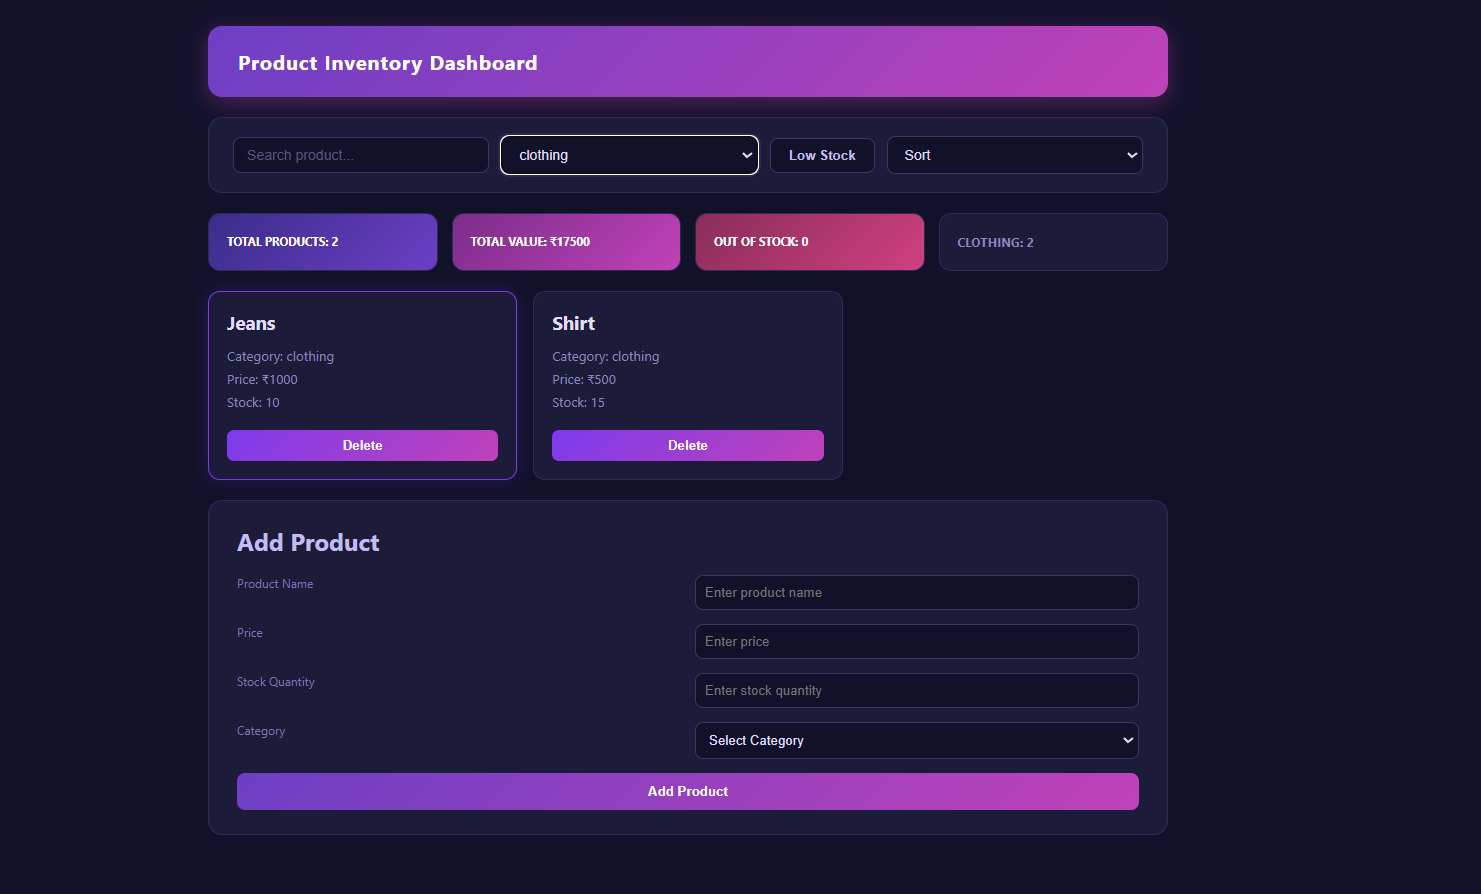
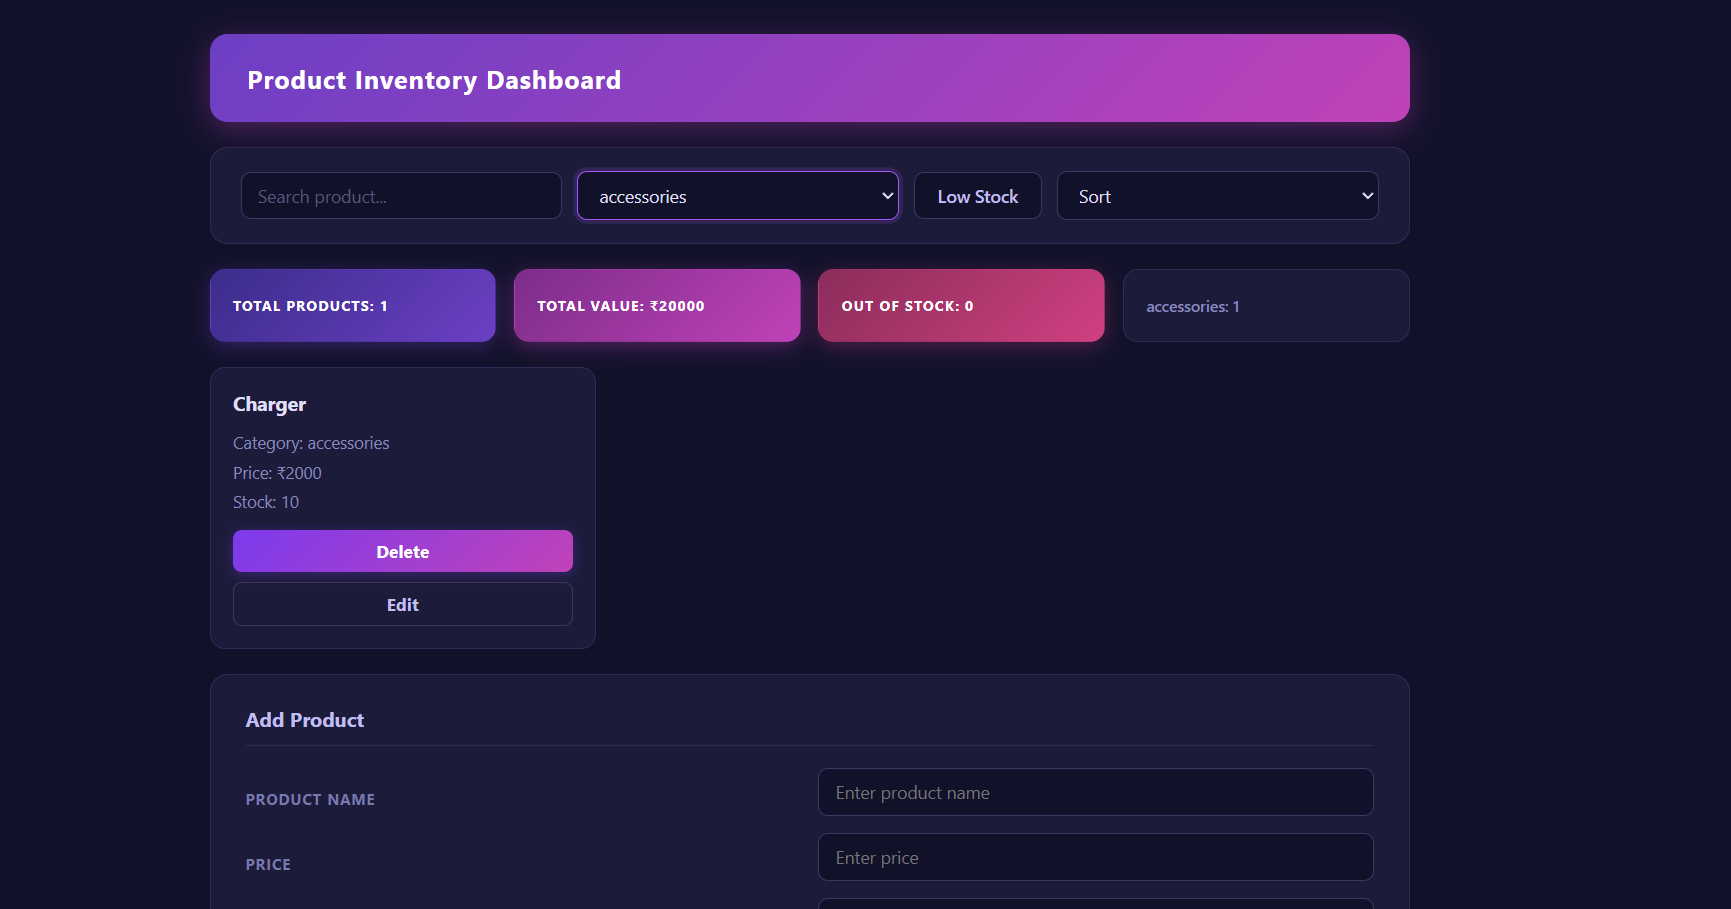
docs : add screenshot of edit feature

diff --git a/gourav_frontend/mini_app/product_inventory_dashboard/README.MD b/gourav_frontend/mini_app/product_inventory_dashboard/README.MD
@@ -18,12 +18,12 @@ The application allows users to manage products by adding, deleting, searching, 
 
 mini_app/  
 └── product_inventory_dashboard/  
-    ├── index.html  
-    ├── css/  
-    │   └── style.css  
-    ├── js/  
-    │   └── script.js  
-    └── README.md  
+      ├── index.html  
+      ├── css/  
+      │   └── style.css  
+      ├── js/  
+      │   └── script.js  
+      └── README.md  
 
     ## How to Run  
 
@@ -144,7 +144,7 @@ Shows how the layout adapts for smaller screens, with stacked sections and a use
 ---
 ### Edit Product (Modal)  
 Allows users to update product details using a popup form without leaving the dashboard.  
-![Edit Product](./screenshots/edit.png)
+![Edit Product](./Screenshots/edit.png)
 
 ---
 
